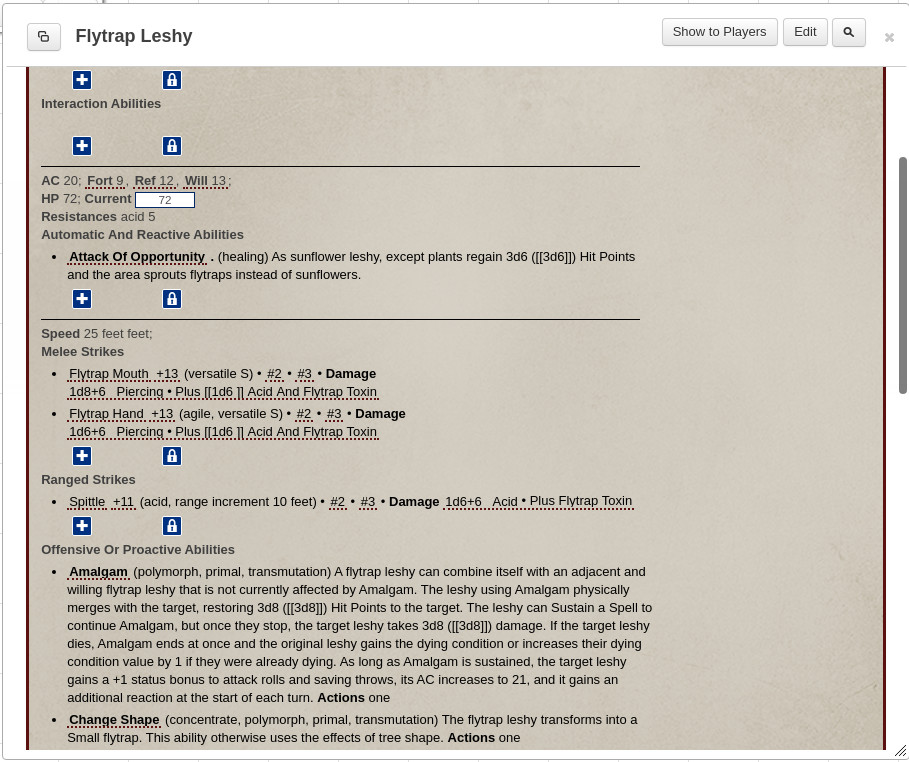
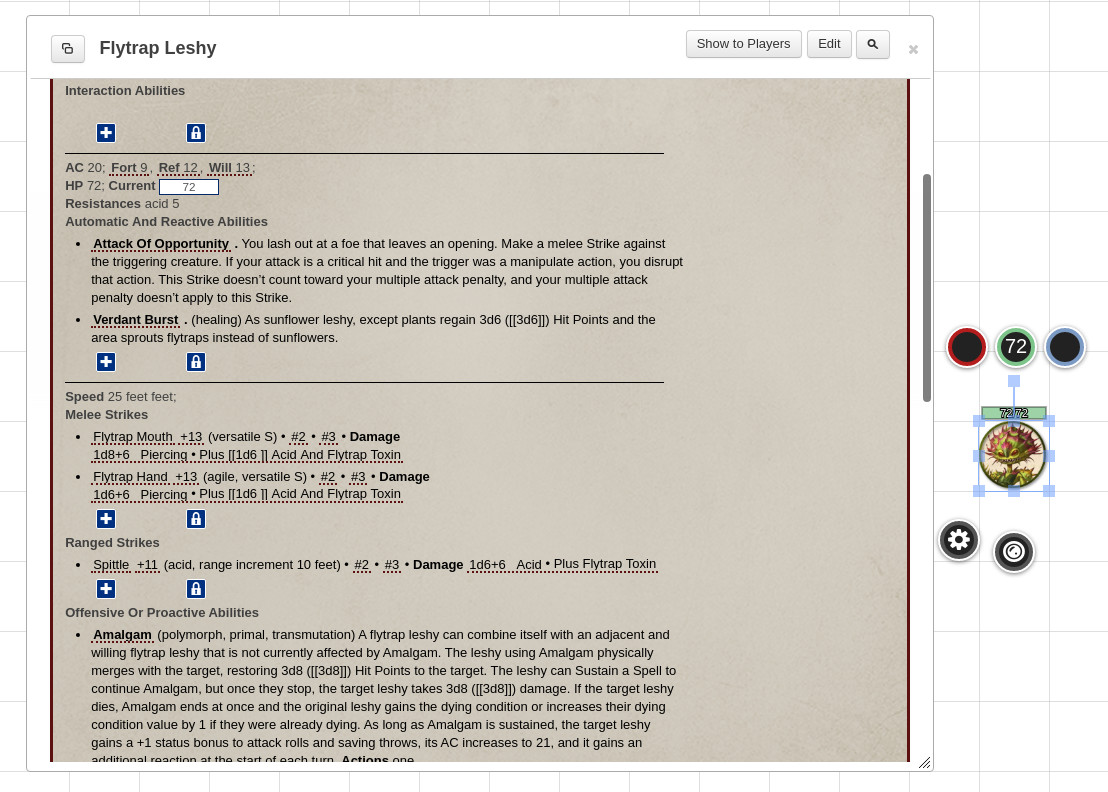
Add another image, and fix it so that it works

diff --git a/pf2_helper.js b/pf2_helper.js
@@ -162,7 +162,7 @@ function get_rolls(content, inlinerolls) {
         }
         //At least for now; "damage_additional" doesn't store the type in the corresponding "info" field, it puts it after the roll index. Whatevs
         var roll = null;
-        log('1');
+
         if(roll_name.match("additional")) {
             //There can be multiple rolls here, each with the type afterwards. We want to break them down,
             //total them up, and add the damage types to a string
@@ -1915,6 +1915,12 @@ function load_pdf_data(input) {
           },
           name : 'rituals',
         },
+        // Match actions that end with the action symbol first, so we give them a different name and don't
+        // expect them to end with a full stop.
+        { re : RegExp('^.*(\\[one-action\\]|\\[two-actions\\]|\\[three-actions\\]|\\[reaction\\]|\\[free-action\\])$'),
+          func : (match) => {log('Found short action ability')},
+          name : 'short_action',
+        },
         // Via some PDF magic it seems that we get action symbols translated into cool "[one-action]" type
         // text which we can use. It doesn't help us if it's a passive ability, but it helps with a lot of
         // things. Note that melee and ranged should already have been picked up, so this ought to get
@@ -2071,10 +2077,11 @@ function load_pdf_data(input) {
                 //TODO: We could also rule out the creatures name here?
                 let last_index = last_line.lastIndexOf('.');
                 let last_sentence = '';
+
                 if( false == first_ability ) {
                     //Abilities *ought* to end with a full stop. If this is the second or subsequent ability
                     //in this section we can rule out starting a new one if we're in the middle of a
-                    //sentence. Maybe
+                    //sentence. Maybe. The exception is a truncated ability like "attack of opportunity"
                     if( last_index == -1 ) {
                         possible_ability = false;
                     }
@@ -2171,7 +2178,8 @@ function load_pdf_data(input) {
         }
         output.specials.push(new_ability(line_data, ability_type));
     }
-    output.traits = output.traits.join(", ");
+
+    output.traits = output.traits.filter(x=>x).join(", ");
     return output;
 }
 

diff --git a/Readme.md b/Readme.md
@@ -1,5 +1,5 @@
 PF2 Helper
-----------
+==========
 
 This is an Roll20 API script designed to help running Pathfinder Second Edition. It has three main features:
 
@@ -16,7 +16,7 @@ As it's still in development, PF2 Helper is not available directly from Roll20. 
 In your game you should see a number of macros get created in the Collection tab, I recommend setting "parse" and "pf2-config" to be in your bar.
 
 Enemy Parsing
-=============
+-------------
 To try parsing an enemy, add a character in the journal tab, and in the GM notes field, copy and paste the statblock for an enemy in from your PDF. Here I have done the Flytrap Leshy:
 
 <img src="https://raw.githubusercontent.com/tompudding/roll20_pf2_helper/master/readme_images/leshy_paste.jpg" width="219" height="300" class="center">
@@ -28,3 +28,5 @@ It will pop up and ask you for the name your players will see. That's because wh
 With luck you'll see the message "Character Flytrap Leshy parsed successfully using PDF format" whispered to you in the chat, and the character should have been filled in as much as possible:
 
 <img src="https://raw.githubusercontent.com/tompudding/roll20_pf2_helper/master/readme_images/leshy_parsed.jpg" width="270" height="228" class="center">
+
+It will also have set the first token bar to the hit points, and the second to the focus points for the creature, if they have them.
